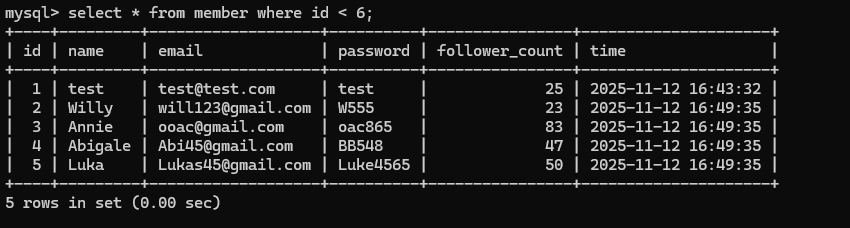
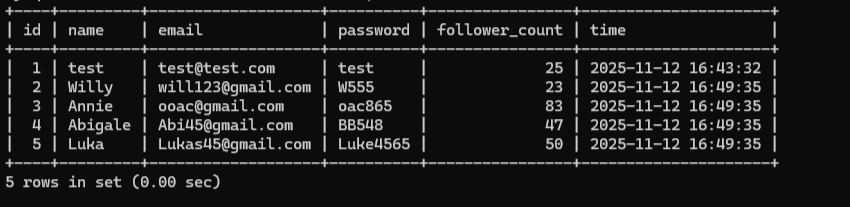
11/13 5th assignment problems solved

diff --git a/week_five/README.md b/week_five/README.md
@@ -33,7 +33,7 @@ insert into member(name, email, password, follower_count)values
 ![img](https://github.com/pervertcoder/WeHelp-The-First-Stage/blob/main/week_five/截圖/TASK_3_REQUEST_1.png)
 
 REQUEST2:  
-select \* from member where id < 6;
+select \* from member;
 
 ![img](https://github.com/pervertcoder/WeHelp-The-First-Stage/blob/main/week_five/截圖/TASK_3_REQUEST_2.png)
 
@@ -142,12 +142,11 @@ where member.email = 'test@test.com';
 
 REQUEST5:  
 select  
-member.name as sender_name,  
 member.email as sender_email,  
 avg(like_count) as love  
 from message  
 join member
 on message.member_id = member.id  
-group by member.name, member.email;
+group by member.email;
 
 ![img](https://github.com/pervertcoder/WeHelp-The-First-Stage/blob/main/week_five/截圖/TASK_5_REQUEST_5.png)
